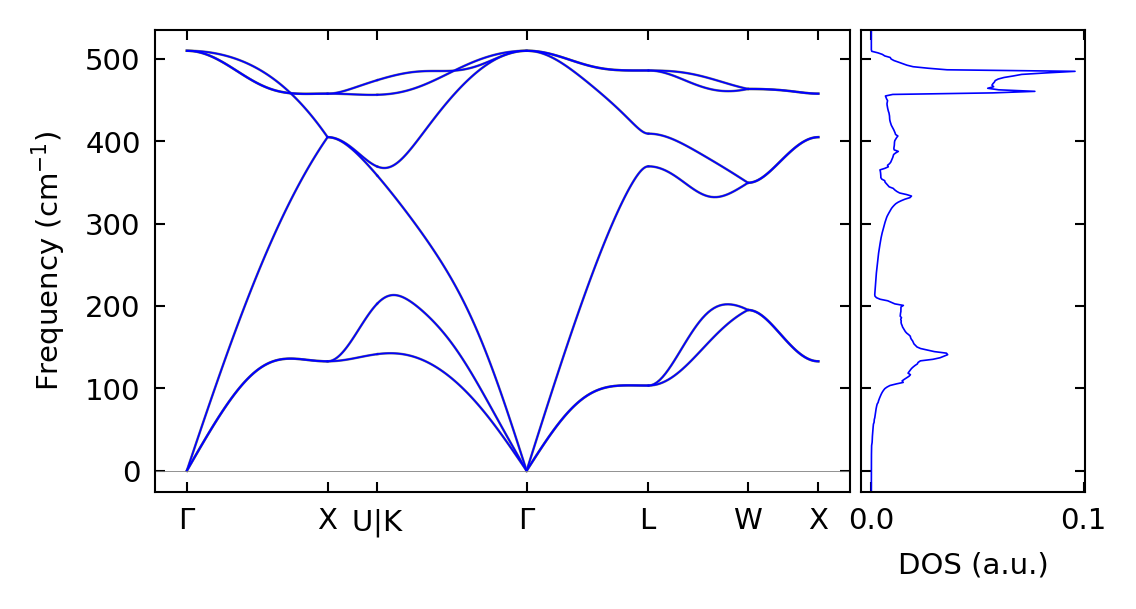
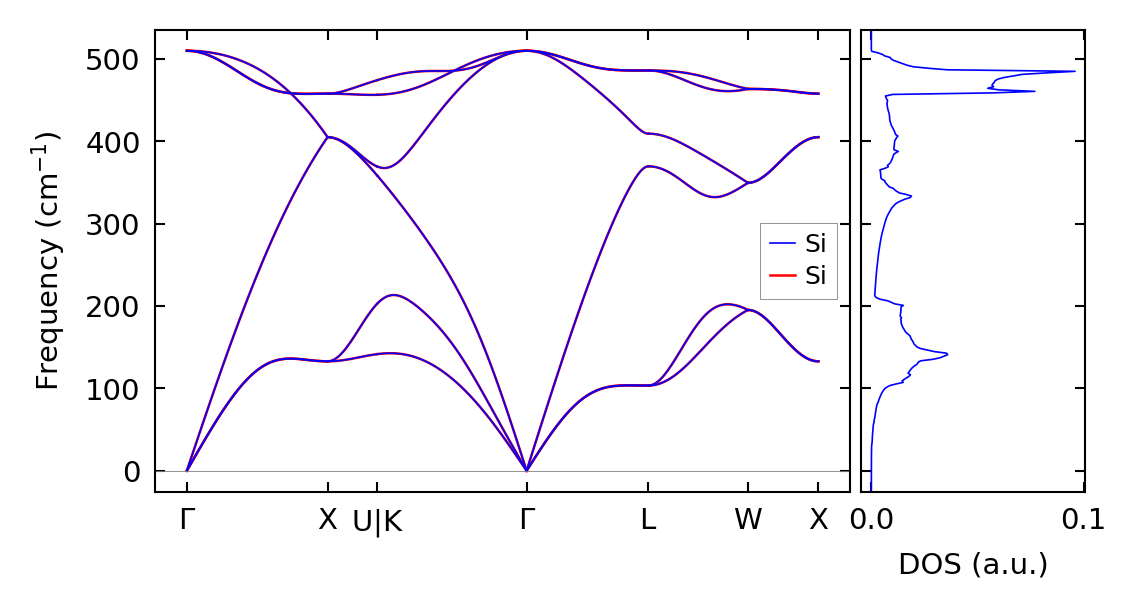
show legend in the figure of phonon dispersion

diff --git a/auto_kappa/plot/bandos.py b/auto_kappa/plot/bandos.py
@@ -251,8 +251,13 @@ def plot_bandos(directory='.', prefix=None, figname=None,
     
     if pr_ratio is None:
         
+        if prefix2 is not None:
+            lab = prefix
+        else:
+            lab = None
+
         _plot_bands(ax1, band.kpoints, band.frequencies, band.label, 
-                col=col, lw=lw, zorder=2)
+                col=col, lw=lw, zorder=2, label=lab)
     
     else:
         # --- coloring fllowing the participation ratio
@@ -324,7 +329,7 @@ def plot_bandos(directory='.', prefix=None, figname=None,
         if 'bands' in filenames2:
             band2 = Band(filename=filenames2['bands'])
             _plot_bands(ax1, band2.kpoints, band2.frequencies, band2.label, 
-                    col=col2, lw=lw2, zorder=1)
+                    col=col2, lw=lw2, zorder=1, label=prefix2)
         
         if 'dos' in filenames2 and plot_dos2:
             dos2 = Dos(filename=filenames2['dos'])
@@ -336,6 +341,9 @@ def plot_bandos(directory='.', prefix=None, figname=None,
     ###        
     ax1.set_ylim(fmin, fmax)
     ax2.set_ylim(fmin, fmax)
+    
+    if prefix2 is not None:
+        set_legend(ax1, fs=6, alpha=0.5)
         
     if figname is not None:
         plt.savefig(figname, dpi=dpi, bbox_inches='tight')
@@ -343,7 +351,8 @@ def plot_bandos(directory='.', prefix=None, figname=None,
         print(" Output", figname)
     return fig
 
-def _plot_bands(ax, ks_tmp, frequencies, xlabels, col='blue', lw=0.5, zorder=10):
+def _plot_bands(ax, ks_tmp, frequencies, xlabels, col='blue', lw=0.5, zorder=10,
+        label=None):
 
     kpoints = ks_tmp.copy()
     
@@ -365,10 +374,15 @@ def _plot_bands(ax, ks_tmp, frequencies, xlabels, col='blue', lw=0.5, zorder=10)
                 i0 = idx_zero[isec-1] + 1
                 i1 = len(kpoints)
             
+            if ib == 0 and isec == 0:
+                lab = label
+            else:
+                lab = None
+
             ax.plot(kpoints[i0:i1], frequencies[i0:i1,ib], 
                     marker="None", c=col,
                     mew=lw, ms=1, mfc='none', lw=lw,
-                    zorder=zorder)
+                    zorder=zorder, label=lab)
 
 def conv_unit(unit, band, dos):
     

diff --git a/examples/tips/plot_bandos.py b/examples/tips/plot_bandos.py
@@ -1,10 +1,11 @@
 from auto_kappa.plot.bandos import plot_bandos
+from auto_kappa.plot.initialize import set_axis, set_legend
 
 dir_band = "./bandos"
 prefix = "Si"
 figname = "fig_bandos.png"
 
-plot_bandos(
+fig = plot_bandos(
         directory=dir_band, prefix=prefix,
         directory2=dir_band, prefix2=prefix,
         col2='red',
